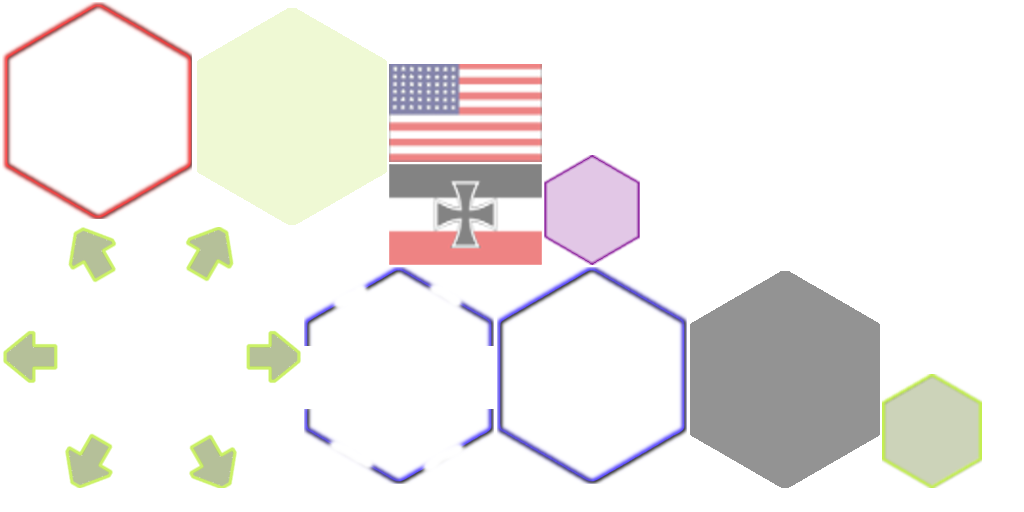
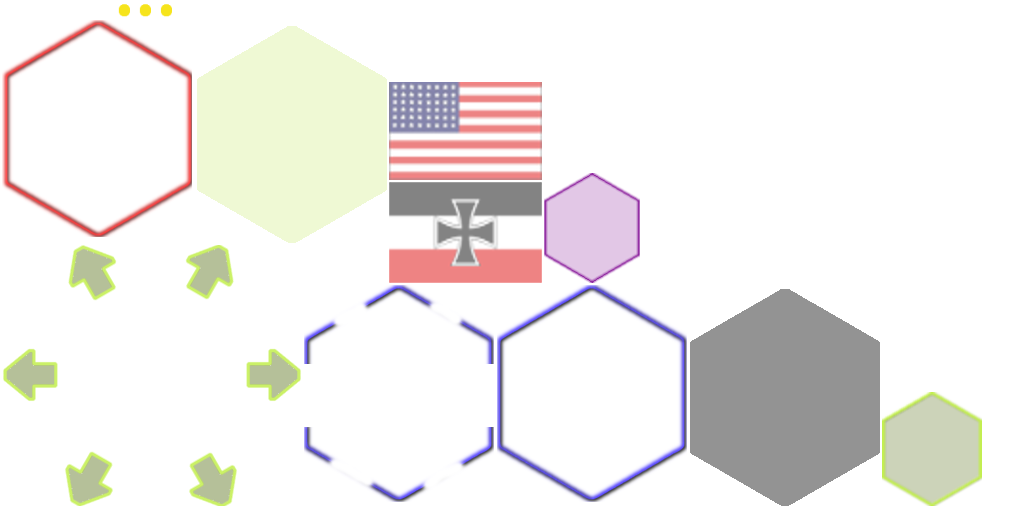
AnimationsScreen : show Path

diff --git a/test/src/ch/asynk/gdx/boardgame/test/AnimationsScreen.java b/test/src/ch/asynk/gdx/boardgame/test/AnimationsScreen.java
@@ -56,6 +56,7 @@ public class AnimationsScreen extends AbstractScreen
         cam.centerOnWorld();
 
         path = buildPath(app);
+        path.show(10, 11);
 
         AnimationBatch batch;
         FireAnimation.register("mgun0", 11, 0.1f, 0.7f, 30f, 150f, 1.3f, 0f,
@@ -82,7 +83,11 @@ public class AnimationsScreen extends AbstractScreen
             Tile to = path.to();
             System.err.println(String.format("%s -> %s", from, to));
             from.enableOverlay(2, false);
-            if (to != null) to.enableOverlay(2, true);
+            from.enableOverlay(10, false);
+            if (to != null) {
+                to.enableOverlay(2, true);
+                to.enableOverlay(11, false);
+            }
         }));
         batch = AnimationBatch.obtain(3);
         batch.add(FadeAnimation.obtain(other0, 0f, 1f, .5f));
